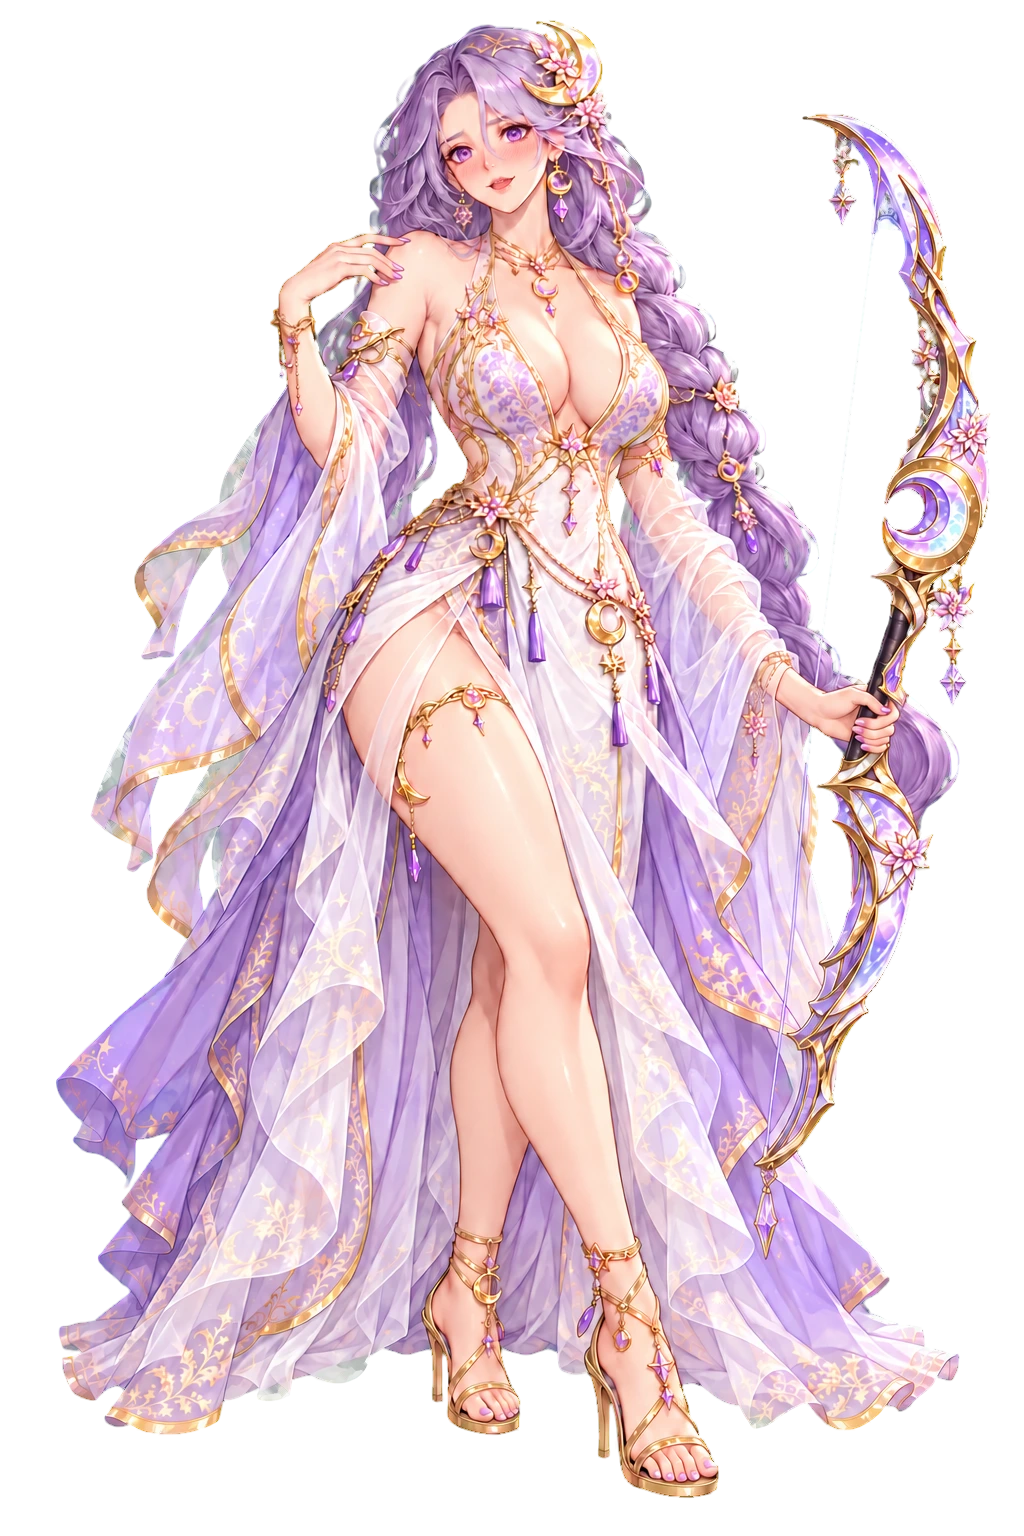
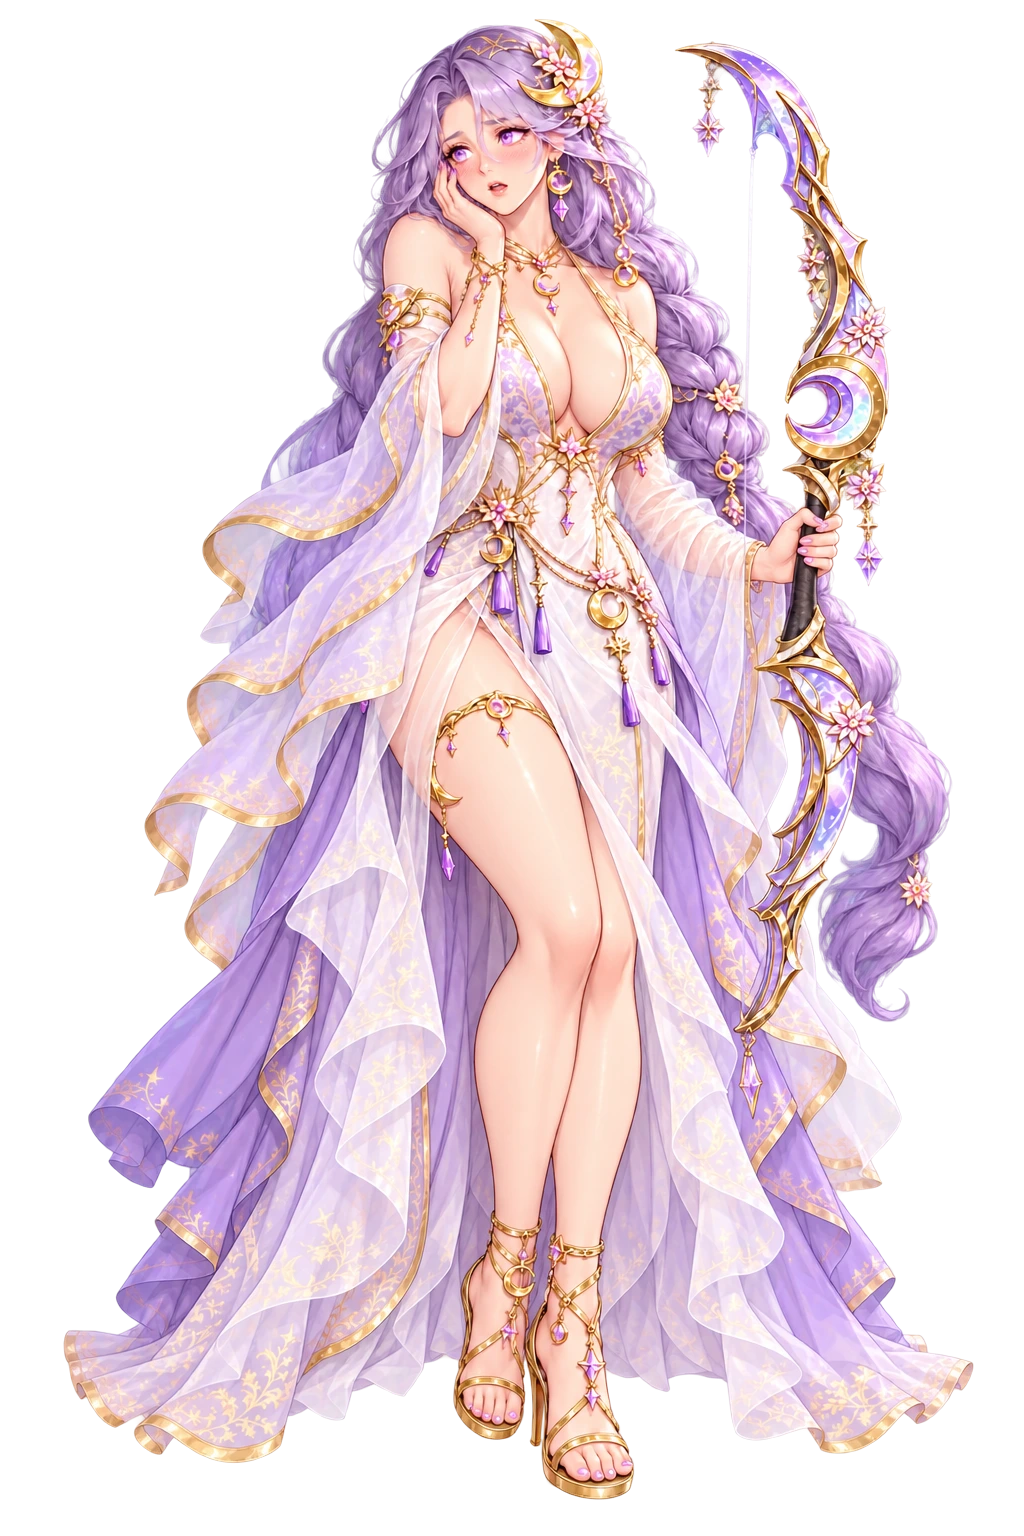
Pose moods for Selene
Nine whole-pose moods for Selene, approved by the owner (D-029, B-20).

- Generated with real transparency from her original base portrait. She
  holds the bow by its grip in every pose; lilac nails in every picture.
- Selene is in POSE_MOODS with per-picture hand boxes.
- Every line of her chats has a mood; sad carries the Moongate and scroll
  scenes, angry is her line to the Lady in Selfish.
- Docs: ART_ASSETS pose table and lessons, ART_QA, STATUS, B-20.

diff --git a/src/data/dialogues.ts b/src/data/dialogues.ts
@@ -236,6 +236,7 @@ export const EPISODES: ChatEpisode[] = [
         'Come up here. The roof is steady, and I promise not to push you. Probably.',
         ["I'll climb up.", 'g', 30],
         ['I like the view from here.', 'h', 20],
+        'laugh',
       ),
       her('g', "Careful — ah. There. Now we're both closer to the moon. And to each other.", 'z', 'blush'),
       her('h', "Is that so? Then I'll stand just a little more in the light. For your view.", 'z', 'wink'),
@@ -266,6 +267,7 @@ export const EPISODES: ChatEpisode[] = [
         'One last card. Draw it, and it will tell us what happens tonight.',
         ['Draw it for me.', 'g', 25],
         ["I'd rather be surprised.", 'h', 30],
+        'smile',
       ),
       her('g', 'The Lovers. Hmm. The moon has such a sense of humor.', 'z', 'wink'),
       her('h', "A romantic. Then I'll keep it face down... and let you find out slowly.", 'z', 'smile'),
@@ -689,20 +691,22 @@ export const EPISODES: ChatEpisode[] = [
         'b',
         'This is the Moongate. The last one. Everything the Lady keeps out of the world is on the other side of this stone.',
         'c',
-        'smile',
+        'sad',
       ),
       pick(
         'c',
         "You're very quiet. Frightened? That's allowed. I was, the first time.",
         ['A little. Stay close?', 'd', 30],
         ["What's on the other side?", 'e', 20],
+        'smile',
       ),
       her('d', 'Ara~ The Commander asking me to stay close. I shall remember this forever.', 'f', 'tease'),
-      her('e', 'The Hollow Sea. Everything the world forgets. And somewhere in it, Keeper Haruo.', 'f', 'shy'),
+      her('e', 'The Hollow Sea. Everything the world forgets. And somewhere in it, Keeper Haruo.', 'f', 'sad'),
       her(
         'f',
         'Haruo raised me after the other priestesses were gone. Ten years ago the seal cracked, and he walked through this gate to hold it shut from the other side.',
         'g',
+        'sad',
       ),
       her(
         'g',
@@ -715,9 +719,10 @@ export const EPISODES: ChatEpisode[] = [
         'Perhaps the Lady likes you. Or perhaps I simply sing better with an audience.',
         ["Then I'll come every night.", 'i', 30],
         ["You shouldn't have had to do this alone.", 'j', 30],
+        'tease',
       ),
       her('i', "Every night? My, my. That's almost a proposal, Commander.", 'z', 'wink'),
-      her('j', "...Don't. If you're kind to me down here I'll cry, and my voice cracks when I cry.", 'z', 'blush'),
+      her('j', "...Don't. If you're kind to me down here I'll cry, and my voice cracks when I cry.", 'z', 'shy'),
       end('z', "Come. Let's go back up to the moonlight. I'll sing something happy, for once.", 'smile'),
     ],
   },
@@ -741,6 +746,7 @@ export const EPISODES: ChatEpisode[] = [
         "Don't look at me like that. I've known since I was a girl. As endings go, it's a beautiful one.",
         ["It's not an ending I'll accept.", 'e', 30],
         ['Is that why you laugh so much?', 'f', 30],
+        'sad',
       ),
       her('e', "Ara... so stern. You'd argue with the moon itself, wouldn't you?", 'g', 'tease'),
       her(
@@ -749,12 +755,13 @@ export const EPISODES: ChatEpisode[] = [
         'g',
         'blush',
       ),
-      her('g', "The eclipse is close now. Soon it won't be a scroll. It will be a night.", 'h', 'shy'),
+      her('g', "The eclipse is close now. Soon it won't be a scroll. It will be a night.", 'h', 'sad'),
       pick(
         'h',
         'Tell me honestly. If it comes to that... will you be angry with me?',
         ["Furious. So let's find another way.", 'i', 30],
         ["I'll be there, holding your hand.", 'j', 25],
+        'shy',
       ),
       her('i', 'Another way. Nobody has ever said that to me. Not even the Lady.', 'z', 'smile'),
       her(
@@ -781,6 +788,7 @@ export const EPISODES: ChatEpisode[] = [
         "All my life I've been a priestess first. The seal, the songs, the duty. Do you know what I have never once been?",
         ['Selfish?', 'd', 30],
         ['Loved properly?', 'e', 30],
+        'smile',
       ),
       her('d', 'Selfish. Exactly. So tonight I am trying it.', 'f', 'tease'),
       her('e', "...That, too. You're not supposed to say the part I was going to say.", 'f', 'blush'),
@@ -790,12 +798,13 @@ export const EPISODES: ChatEpisode[] = [
         'g',
         'smile',
       ),
-      her('g', 'Lady, did you hear? I am keeping them. You may have my songs. Not my ending.', 'h', 'laugh'),
+      her('g', 'Lady, did you hear? I am keeping them. You may have my songs. Not my ending.', 'h', 'angry'),
       pick(
         'h',
         'Well? Are you going to let a priestess defy the moon alone?',
         ["Never. We'll defy it together.", 'i', 30],
         ['I love you too, Selene.', 'j', 30],
+        'tease',
       ),
       her('i', 'Together. Then the Lady had better start taking notes.', 'z', 'wink'),
       her('j', '...Say it again. Slowly. I want the moon to be jealous.', 'z', 'blush'),

diff --git a/scripts/artSpec.ts b/scripts/artSpec.ts
@@ -10,7 +10,7 @@ export { MOODS };
  * portrait with a new face. The gate checks their moods keep her size and footing
  * instead of her silhouette. Every heroine moves here as her art is redone.
  */
-export const POSE_MOODS: ReadonlySet<string> = new Set(['scarlet', 'yuki', 'kaede']);
+export const POSE_MOODS: ReadonlySet<string> = new Set(['scarlet', 'yuki', 'kaede', 'selene']);
 export const CHIBI_FILES = ['chibi', 'chibi-attack', 'chibi-back', 'chibi-back-attack'] as const;
 export const GALLERY_FILES = [1, 2, 3, 4, 5].map((n) => `gallery-${n}`);
 
@@ -146,10 +146,39 @@ export const HAND_BOXES: Record<string, Box[] | Record<string, Box[]>> = {
       [349, 683, 170, 170],
     ],
   },
-  selene: [
-    [190, 190, 200, 200],
-    [740, 680, 200, 200],
-  ],
+  selene: {
+    portrait: [
+      [250, 180, 200, 200],
+      [740, 680, 200, 200],
+    ],
+    'portrait-smile': [
+      [351, 425, 170, 170],
+      [777, 581, 170, 170],
+    ],
+    'portrait-laugh': [
+      [349, 132, 170, 170],
+      [794, 577, 170, 170],
+    ],
+    'portrait-tease': [
+      [304, 143, 170, 170],
+      [801, 556, 170, 170],
+    ],
+    'portrait-wink': [[219, 339, 170, 170]],
+    'portrait-blush': [
+      [381, 132, 170, 170],
+      [722, 463, 170, 170],
+    ],
+    'portrait-shy': [[370, 340, 170, 230]],
+    'portrait-pout': [[480, 360, 230, 190]],
+    'portrait-angry': [
+      [211, 610, 170, 170],
+      [749, 434, 170, 170],
+    ],
+    'portrait-sad': [
+      [550, 383, 170, 170],
+      [736, 569, 170, 170],
+    ],
+  },
   nemu: [
     [260, 150, 210, 210],
     [690, 690, 180, 200],

diff --git a/docs/STATUS.md b/docs/STATUS.md
@@ -63,7 +63,7 @@
 
 ## Last session
 
-**2026-10-03 — Pose moods: Scarlet, Yuki and Kaede approved; cut-outs with real transparency (Claude, local Windows session). Merged to `main` at the owner's request so he can test both (B-20 continues)**
+**2026-10-03 — Pose moods: Scarlet, Yuki, Kaede and Selene approved; cut-outs with real transparency (Claude, local Windows session). Merged to `main` at the owner's request so he can test both (B-20 continues)**
 
 - The owner asked two things. (1) Can the generator output transparent backgrounds? Yes: Codex's image tool has `transparent_background`. Its cut-out beats keying a green screen (no screen colour to unmix; halo ≤ 0.004 once `npm run art` strips the faint fringe it leaves, `cleanAlpha` in `scripts/chroma.ts`). It is now a rule (AGENTS §7, ART_GUIDE §3 and §9): anything that needs a transparent background is asked transparent from the generator. (2) Moods should be whole poses, not the base portrait with a new face (D-029).
 - Scarlet has nine pose moods, **approved by the owner** (list and lessons in ART_ASSETS "Pose moods"). He rejected the first `blush`, `tease` and `shy` for their hands and picked replacements from two candidates each; he also picked a regenerated base portrait (real transparency, clean hair). The mood set is smile, laugh, tease, wink, blush, shy, pout, angry, sad (`MOODS` in `src/data/progression.ts`, the one definition now); `smirk`/`grin` files are deleted and their lines retagged for all five heroines; every line of Scarlet's has a mood (an untagged line falls back to `smile`, which with poses means she snaps back to the smile pose mid-scene). The other four have no `angry`/`sad` art yet, so their lines don't use them (a data test enforces it).
@@ -71,7 +71,8 @@
 - **Rule from the owner: new art gets his review before it is committed.** Send him the moods sheet and the hands sheet first.
 - Yuki has nine pose moods, **approved by the owner** (ART_ASSETS has her pose table); she keeps her staff in every pose and her sleeves hide a hand where they can. Every line of hers has a mood; `sad` is on the lines about her sisters. Her base portrait is the original: regenerating it with real transparency changed her hand and feet, and after seeing Kaede's takes too the owner decided approved originals stay and only new images use transparency (Scarlet's regenerated base, which he picked earlier, is the one exception in the game).
 - Kaede has nine pose moods, **approved by the owner**, all first takes (ART_ASSETS has her pose table). No flame in the poses. `angry` and `sad` are used in `Hinoe` and `If I Burn`; every line of hers has a mood.
-- Next: Selene, then Nemu (B-20 has the steps). The owner is testing Scarlet and Yuki in the live game. Pictures waiting for his review are in `artifacts/art-src/<id>/` on his PC (git-ignored), not in the repo.
+- Selene has nine pose moods, **approved by the owner** (ART_ASSETS has her pose table). She holds the bow by its grip in every pose. `sad` carries the Moongate and scroll scenes, `angry` is her line to the Lady in `Selfish`; every line of hers has a mood.
+- Next: Nemu, the last one (B-20 has the steps). The owner is testing the poses in the live game. Pictures waiting for his review are in `artifacts/art-src/<id>/` on his PC (git-ignored), not in the repo.
 
 **Previously, 2026-10-03 — Art gate; ghost halo and blurry chats fixed (Claude, local Windows session)**
 
@@ -135,7 +136,7 @@
 
 ## Next up
 
-0. **Pose moods for Selene and Nemu (B-20):** Scarlet's, Yuki's and Kaede's are approved and live. One heroine at a time: nine poses from her approved base, the owner's review, then wire her chats. Ask the owner what he found testing Scarlet and Yuki.
+0. **Pose moods for Nemu (B-20):** the other four are approved and live. One heroine at a time: nine poses from her approved base, the owner's review, then wire her chats. Ask the owner what he found testing Scarlet and Yuki.
 1. **Art gate sign-off (B-18):** the owner looks at `artifacts/art-check/` (or the game) and signs off each heroine in `docs/ART_QA.md`; redraw what he rejects. Ask him about B-19 (upscaled portraits for 4K framing).
 2. **Nemu follow-ups (owner):** confirm her chibi (B, two pins forward, is shipped; A, mid-throw, is the alternative), play her chats, and decide what to do with the two portrait poses he also liked (my suggestion: use them as gallery pictures). Her five gallery pictures are still placeholders (B-01).
 3. **Owner check of Kaede's and Selene's moods** (open a chat with each; any face he dislikes is one Codex image to redo with her `portrait.webp` as the reference, Kaede on blue, Selene on green). Then **T-08** (drop the `FULL_BODY` set, full body becomes the default framing). Then **Owner check:** Messages → a heroine → Gift / Diary / Talk. Then **owner playtest of the upgrade tree and the bigger heroines** (is 1.5 tiles right? `CHIBI_H` in `BattleScene.ts`; does the map panel sit on the right side of her?) and **install the PWA** on the phone (Add to Home Screen). Then **owner playtest of the skill effects** (upgrade each path to 3 with `?dev`; are signatures readable, too flashy at 3× speed?) and the longer music. Then **owner playtest of music + motion** (is the lofi too quiet/loud? any animation that feels slow or annoying? Tweak durations in the motion block of `style.css`). Then **owner playtest of the lobby + Frostveil Pass**, then the previous items. **Owner playtest (earlier):** read a Bond 5+ chat, watch combat at tier 3, listen to the new sounds. Tune in `Vfx.ts` / `sound.ts`.

diff --git a/docs/ART_ASSETS.md b/docs/ART_ASSETS.md
@@ -25,9 +25,9 @@ Kaede's approved design, for future art of her: left hand on her hip with the el
 
 Selene's approved design, for future art of her: the owner asked for cleavage like the other heroines, so her gown now has an open plunging V neckline with halter straps (this replaces the covered high-neck bodice described below; her chibi was redone to match on 2026-10-03). Right hand raised with the fingertips on her bare shoulder, glossy lilac almond-shaped nails, left hand holding a tall moon bow upright at her side (large gold crescent above a dark grip, lower tip around her knee), thick side braid over her left shoulder, gold heeled sandals. The owner checks hands and nails closely: review both hands zoomed in before showing him a candidate.
 
-## Pose moods (2026-10-03: Scarlet, Yuki and Kaede approved)
+## Pose moods (2026-10-03: Scarlet, Yuki, Kaede and Selene approved)
 
-The owner wants each mood to be a whole pose and expression instead of the base portrait with a new face (D-029). Scarlet is the first; her nine `portrait-<mood>.webp` were generated with her `portrait.webp` as the reference and real transparency from the image tool (`transparent_background`, no green screen). The owner approved her set and the approach, then Yuki's and Kaede's; Selene and Nemu follow one at a time (B-20) and until then keep face-only moods and no `angry` or `sad`.
+The owner wants each mood to be a whole pose and expression instead of the base portrait with a new face (D-029). Scarlet is the first; her nine `portrait-<mood>.webp` were generated with her `portrait.webp` as the reference and real transparency from the image tool (`transparent_background`, no green screen). The owner approved her set and the approach, then Yuki's, Kaede's and Selene's; Nemu is the last (B-20) and until then keeps face-only moods and no `angry` or `sad`.
 
 | Mood  | Scarlet's pose                                                                                      |
 | ----- | --------------------------------------------------------------------------------------------------- |
@@ -74,6 +74,22 @@ Kaede's poses have no flame (a flame over an open palm is the hand the generator
 | sad   | head bowed, tears welling, one hand holding her other arm, the other a loose fist at her side  |
 
 All nine passed first time: closed fists, a hand on the hip and hidden hands are the reliable hand poses.
+
+Selene holds her bow by its grip in every pose and never draws the string (a string hand is fingers the generator would have to invent). Her lilac nails were asked for in every prompt and came back consistent:
+
+| Mood  | Selene's pose                                                                                |
+| ----- | -------------------------------------------------------------------------------------------- |
+| smile | weight on one leg, bow upright at her side, the other hand on her hip, a soft smile          |
+| laugh | eyes closed, the back of her free hand raised in front of her mouth, bow at her side         |
+| tease | leaning in, chin on the backs of her curled fingers, bow at her side, one eyebrow raised     |
+| wink  | one eye closed, bow resting against her shoulder, the other arm behind her back              |
+| blush | pink cheeks, eyes to the side, a hand on her cheek, bow held close                           |
+| shy   | both hands on the bow grip, half hiding behind it, head lowered, looking away                |
+| pout  | arms crossed with the hands tucked in, bow in the crook of her arm, cheeks puffed            |
+| angry | standing tall, bow held out upright in one hand, the other a fist, hair and gown in the wind |
+| sad   | head bowed, tears welling, bow at her side, her free hand holding her bow arm                |
+
+Lessons from Selene: the first `shy` had a stray finger sticking out beside the grip; an edit that named it ("a stray finger sticks out to the side… remove it; the lower hand is a simple closed grip") removed it and kept everything else. `smile` and `shy` failed once with "Selected model is at capacity": that is not a refusal, just run them again.
 
 ## Gallery 2, "Off Duty" (2026-10-02)
 

diff --git a/docs/ART_QA.md b/docs/ART_QA.md
@@ -40,7 +40,7 @@ Measured on clean art: halo ≤ 0.03, tint ≤ 1.6 %, spill 0, mood IoU ≥ 0.99
 | Scarlet | passes                              | **Nine pose moods (D-029), owner approved 2026-10-03** after three were redone for their hands (blush, tease, shy). Hands reviewed at 3× in all ten pictures: fingers countable, every held revolver gripped, nail colour consistent; same size in every pose; no gun toward the viewer or her head. Base portrait regenerated with real transparency (owner picked take A): clean hair edges | chibi front pose (predates her full-body art), gallery-1 (predates it too)                        |
 | Yuki    | passes                              | **Nine pose moods (D-029), owner approved 2026-10-03.** Hands reviewed at 3.5–6×: every staff hand a closed grip with four fingers and a thumb, nails pale pink in every picture; same size in every pose. Base portrait: the original keyed one, kept by the owner's decision (regenerating it changed her hand and feet)                                                                    | chibi front pose, gallery-1                                                                       |
 | Kaede   | passes                              | **Nine pose moods (D-029), owner approved 2026-10-03**, all first takes. Hands reviewed at 3.5–6×: fists with four knuckles and a thumb, hip hands with four countable fingers, the gourd gripped by its neck, hands hidden in smile, shy and pout; same size in every pose; no flame outside the base portrait                                                                               | chibi front pose, gallery-1                                                                       |
-| Selene  | incomplete (no angry, sad)          | Hands correct in all 8 (face-only moods)                                                                                                                                                                                                                                                                                                                                                      | pose moods to redo (B-20)                                                                         |
+| Selene  | passes                              | **Nine pose moods (D-029), owner approved 2026-10-03.** Hands reviewed at 3.5–7×: every bow hand a closed grip with four fingers and a thumb, lilac nails in every picture, hands hidden in pout and (one) wink; a stray finger in the first shy was removed with an edit; same size in every pose; the bowstring is never drawn                                                              | —                                                                                                 |
 | Nemu    | incomplete (no angry, sad, gallery) | Hands correct in all 8 (face-only moods)                                                                                                                                                                                                                                                                                                                                                      | pose moods to redo (B-20); chibi front pose (B shipped, A the alternative), five gallery pictures |
 
 Already approved by the owner one picture at a time: every base portrait, the 15 new chibi poses and Selene's new front chibi, gallery 2–5 for the first four, Selene's gallery-1.

diff --git a/docs/ART_GUIDE.md b/docs/ART_GUIDE.md
@@ -72,7 +72,7 @@ Follow these rules or faces get cut off:
   - The background must be **transparent** (a box behind her looks bad on the home screen). Two ways to get it:
     - **Best: real transparency from the generator.** Codex's image tool has a `transparent_background` switch (§9). `npm run art` only strips the near-invisible fringe its cut-out leaves. No screen colour ever touches her, so there are no coloured hair edges to repair (measured halo ≤ 0.003; keyed art is 0.008–0.028).
     - **Fallback: a green screen.** The ChatGPT app usually can't output transparency, so ask for a **flat solid pure green (#00FF00)** background: `npm run art` detects green corners and removes the green, edges included.
-  - **Moods are different poses, the same size.** Each `portrait-<mood>.webp` is a new pose and expression (§5.4), but her outfit, her size (head-to-feet height) and the line her feet stand on must match `portrait.webp`: in chats one picture fades into the next, so a change of size or footing shows as her growing or hopping. The art gate measures it. (Selene and Nemu still have the older kind, the base pose with only the face changed, until theirs are redrawn.)
+  - **Moods are different poses, the same size.** Each `portrait-<mood>.webp` is a new pose and expression (§5.4), but her outfit, her size (head-to-feet height) and the line her feet stand on must match `portrait.webp`: in chats one picture fades into the next, so a change of size or footing shows as her growing or hopping. The art gate measures it. (Nemu still has the older kind, the base pose with only the face changed, until hers are redrawn.)
 - **Chibi (`chibi.webp`)**
   - It is drawn about **one map tile tall**, which is tiny (roughly 40–80 px on screen). It needs a bold silhouette, big head, simple shapes, her signature color and weapon, and no fine details.
   - **She must face screen-RIGHT** (her body angled right, weapon pointing right). The game mirrors her when enemies are on the left.

diff --git a/docs/BACKLOG.md b/docs/BACKLOG.md
@@ -6,11 +6,11 @@ Legend: **P1** next · **P2** soon · **P3** later · 🔒 blocked (reason given
 
 ---
 
-### B-20 · P1 · Pose moods for every heroine (Scarlet, Yuki and Kaede done; Selene next)
+### B-20 · P1 · Pose moods for every heroine (only Nemu left)
 
-Moods are whole poses (D-029). The owner approved Scarlet's nine and the approach on 2026-10-03, then Yuki's and Kaede's. All three are on `main` and live. Base portraits are not regenerated (his decision after Yuki's and Kaede's takes changed hands and feet): the approved original is the reference for the poses.
+Moods are whole poses (D-029). The owner approved Scarlet's nine and the approach on 2026-10-03, then Yuki's, Kaede's and Selene's. All four are on `main` and live. Base portraits are not regenerated (his decision after Yuki's and Kaede's takes changed hands and feet): the approved original is the reference for the poses.
 
-For each of Selene and Nemu, one heroine at a time:
+For Nemu:
 
 1. Generate nine poses written for her character (LORE; ART_GUIDE §5.4 and §9, `transparent_background`). Use hand poses the generator gets right (ART_ASSETS "Pose moods" lessons).
 2. `npm run art`, add her to `POSE_MOODS`, give her per-picture `HAND_BOXES` (`scripts/artSpec.ts`), review the hands sheet at 3×.
